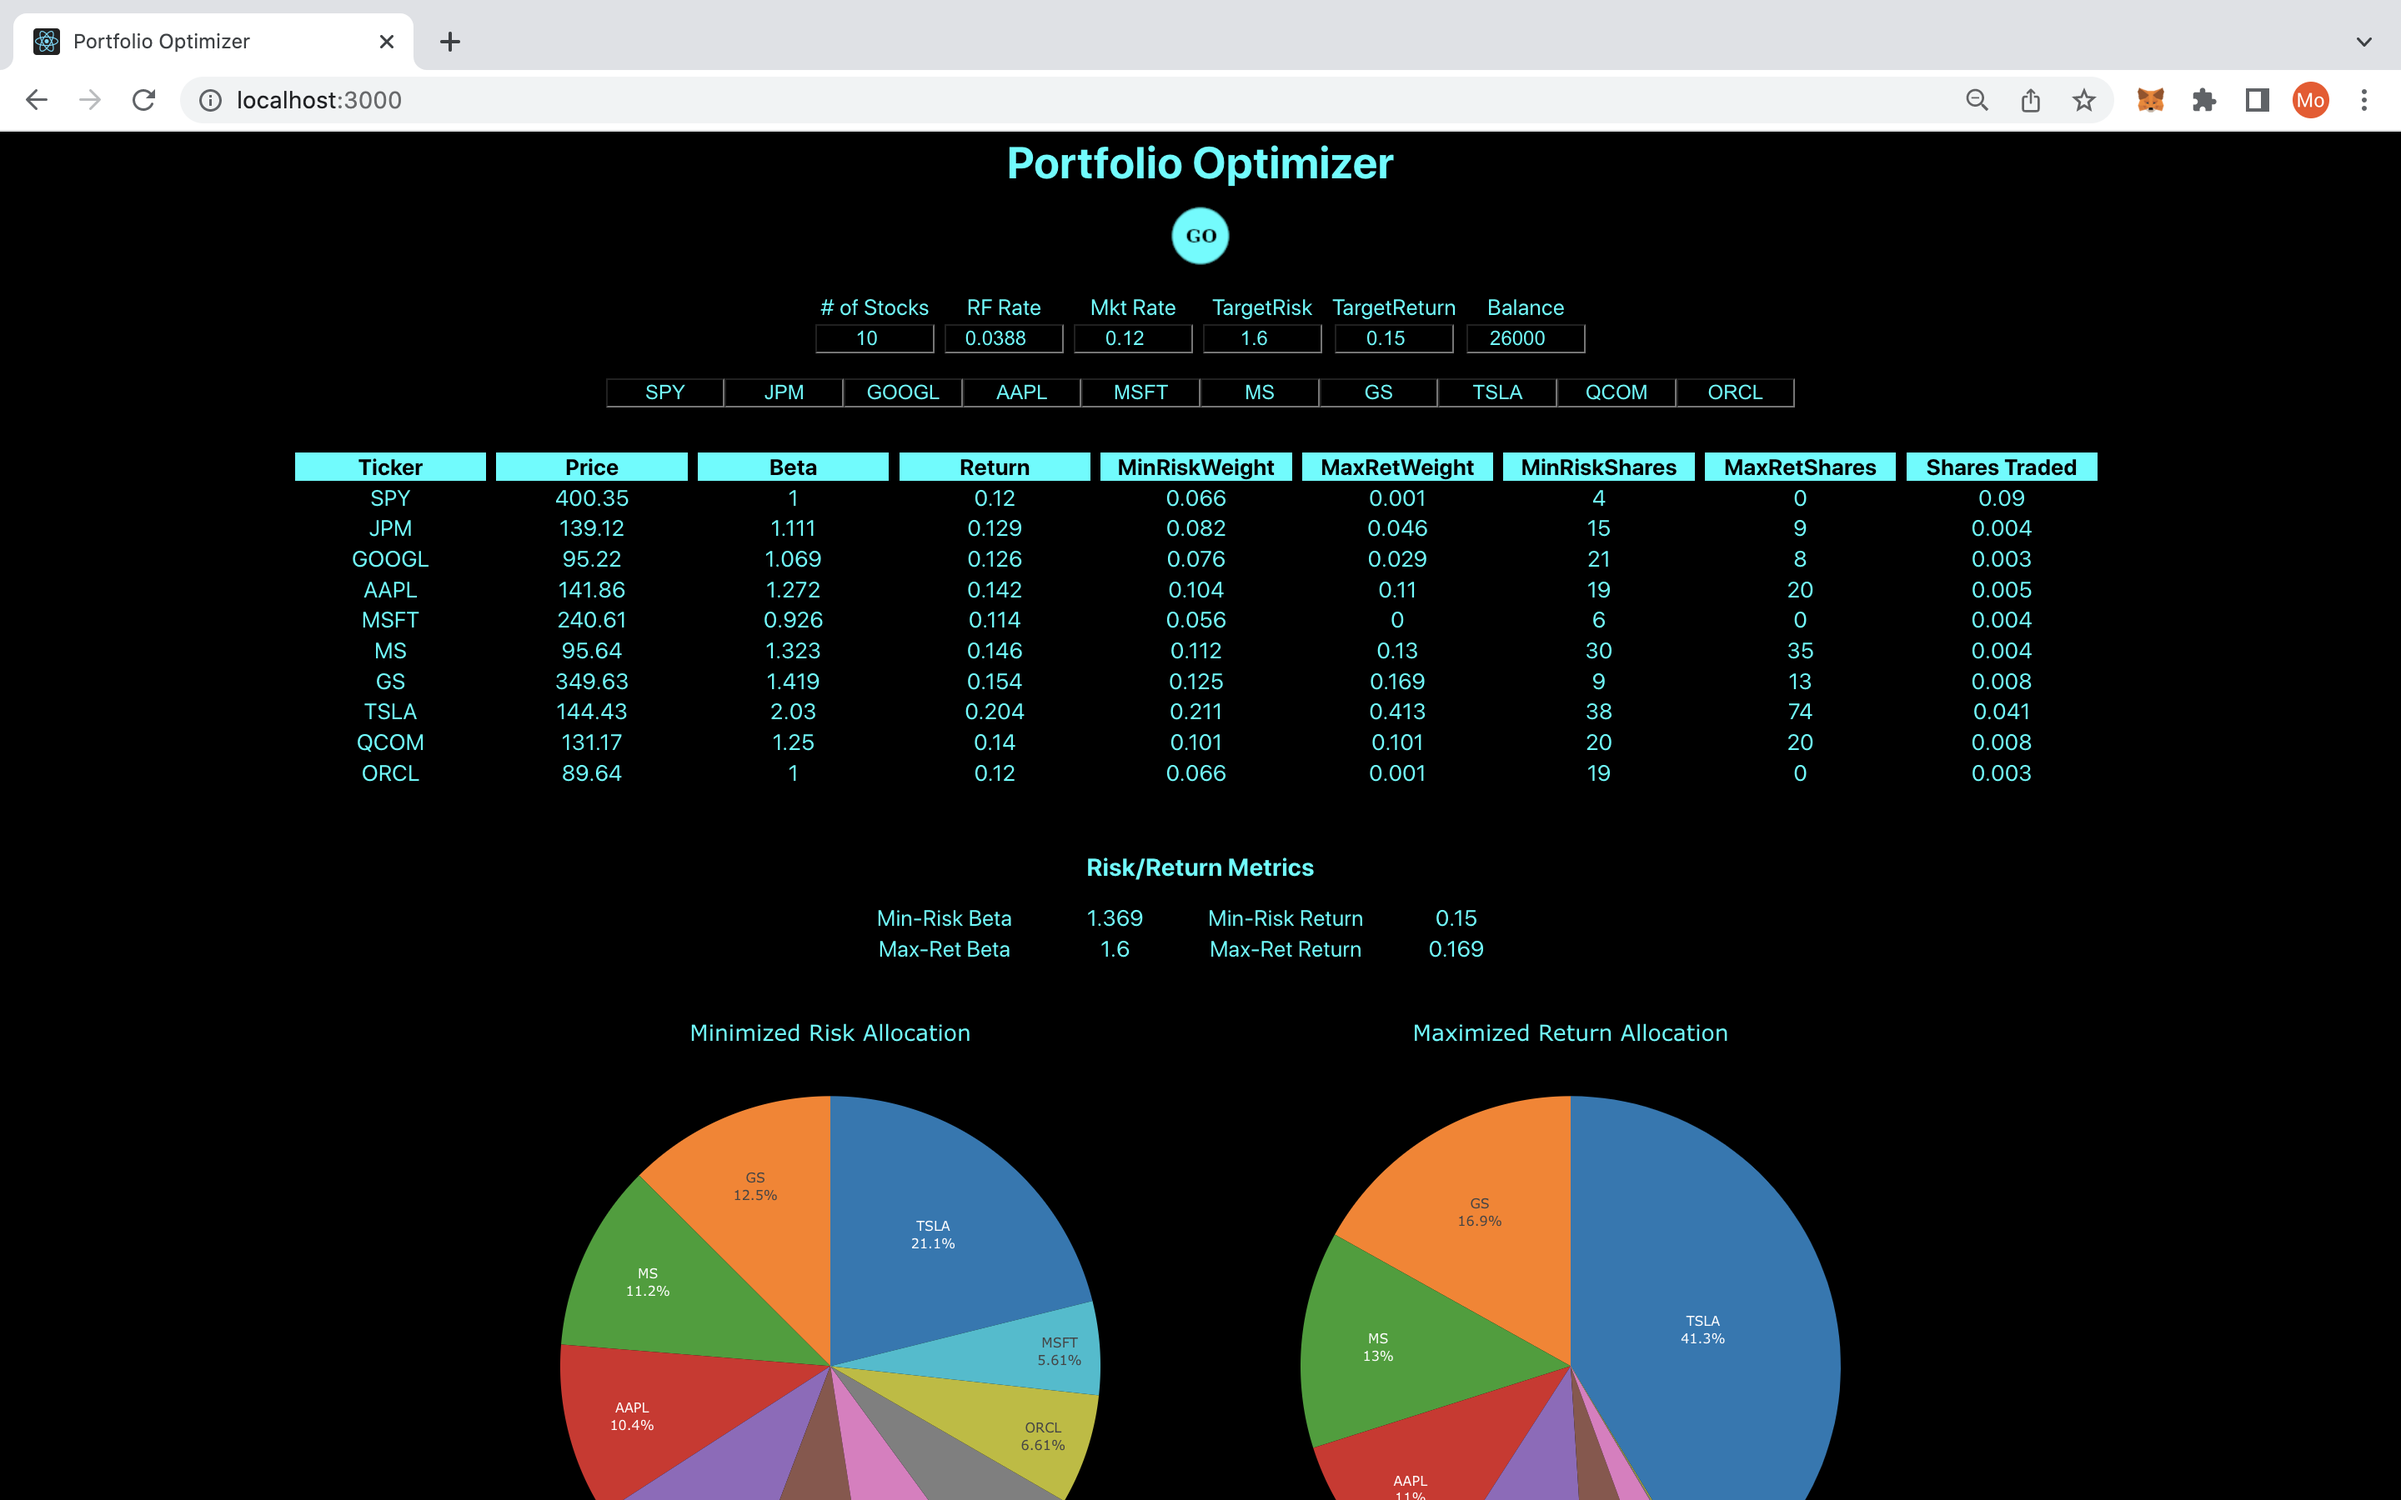
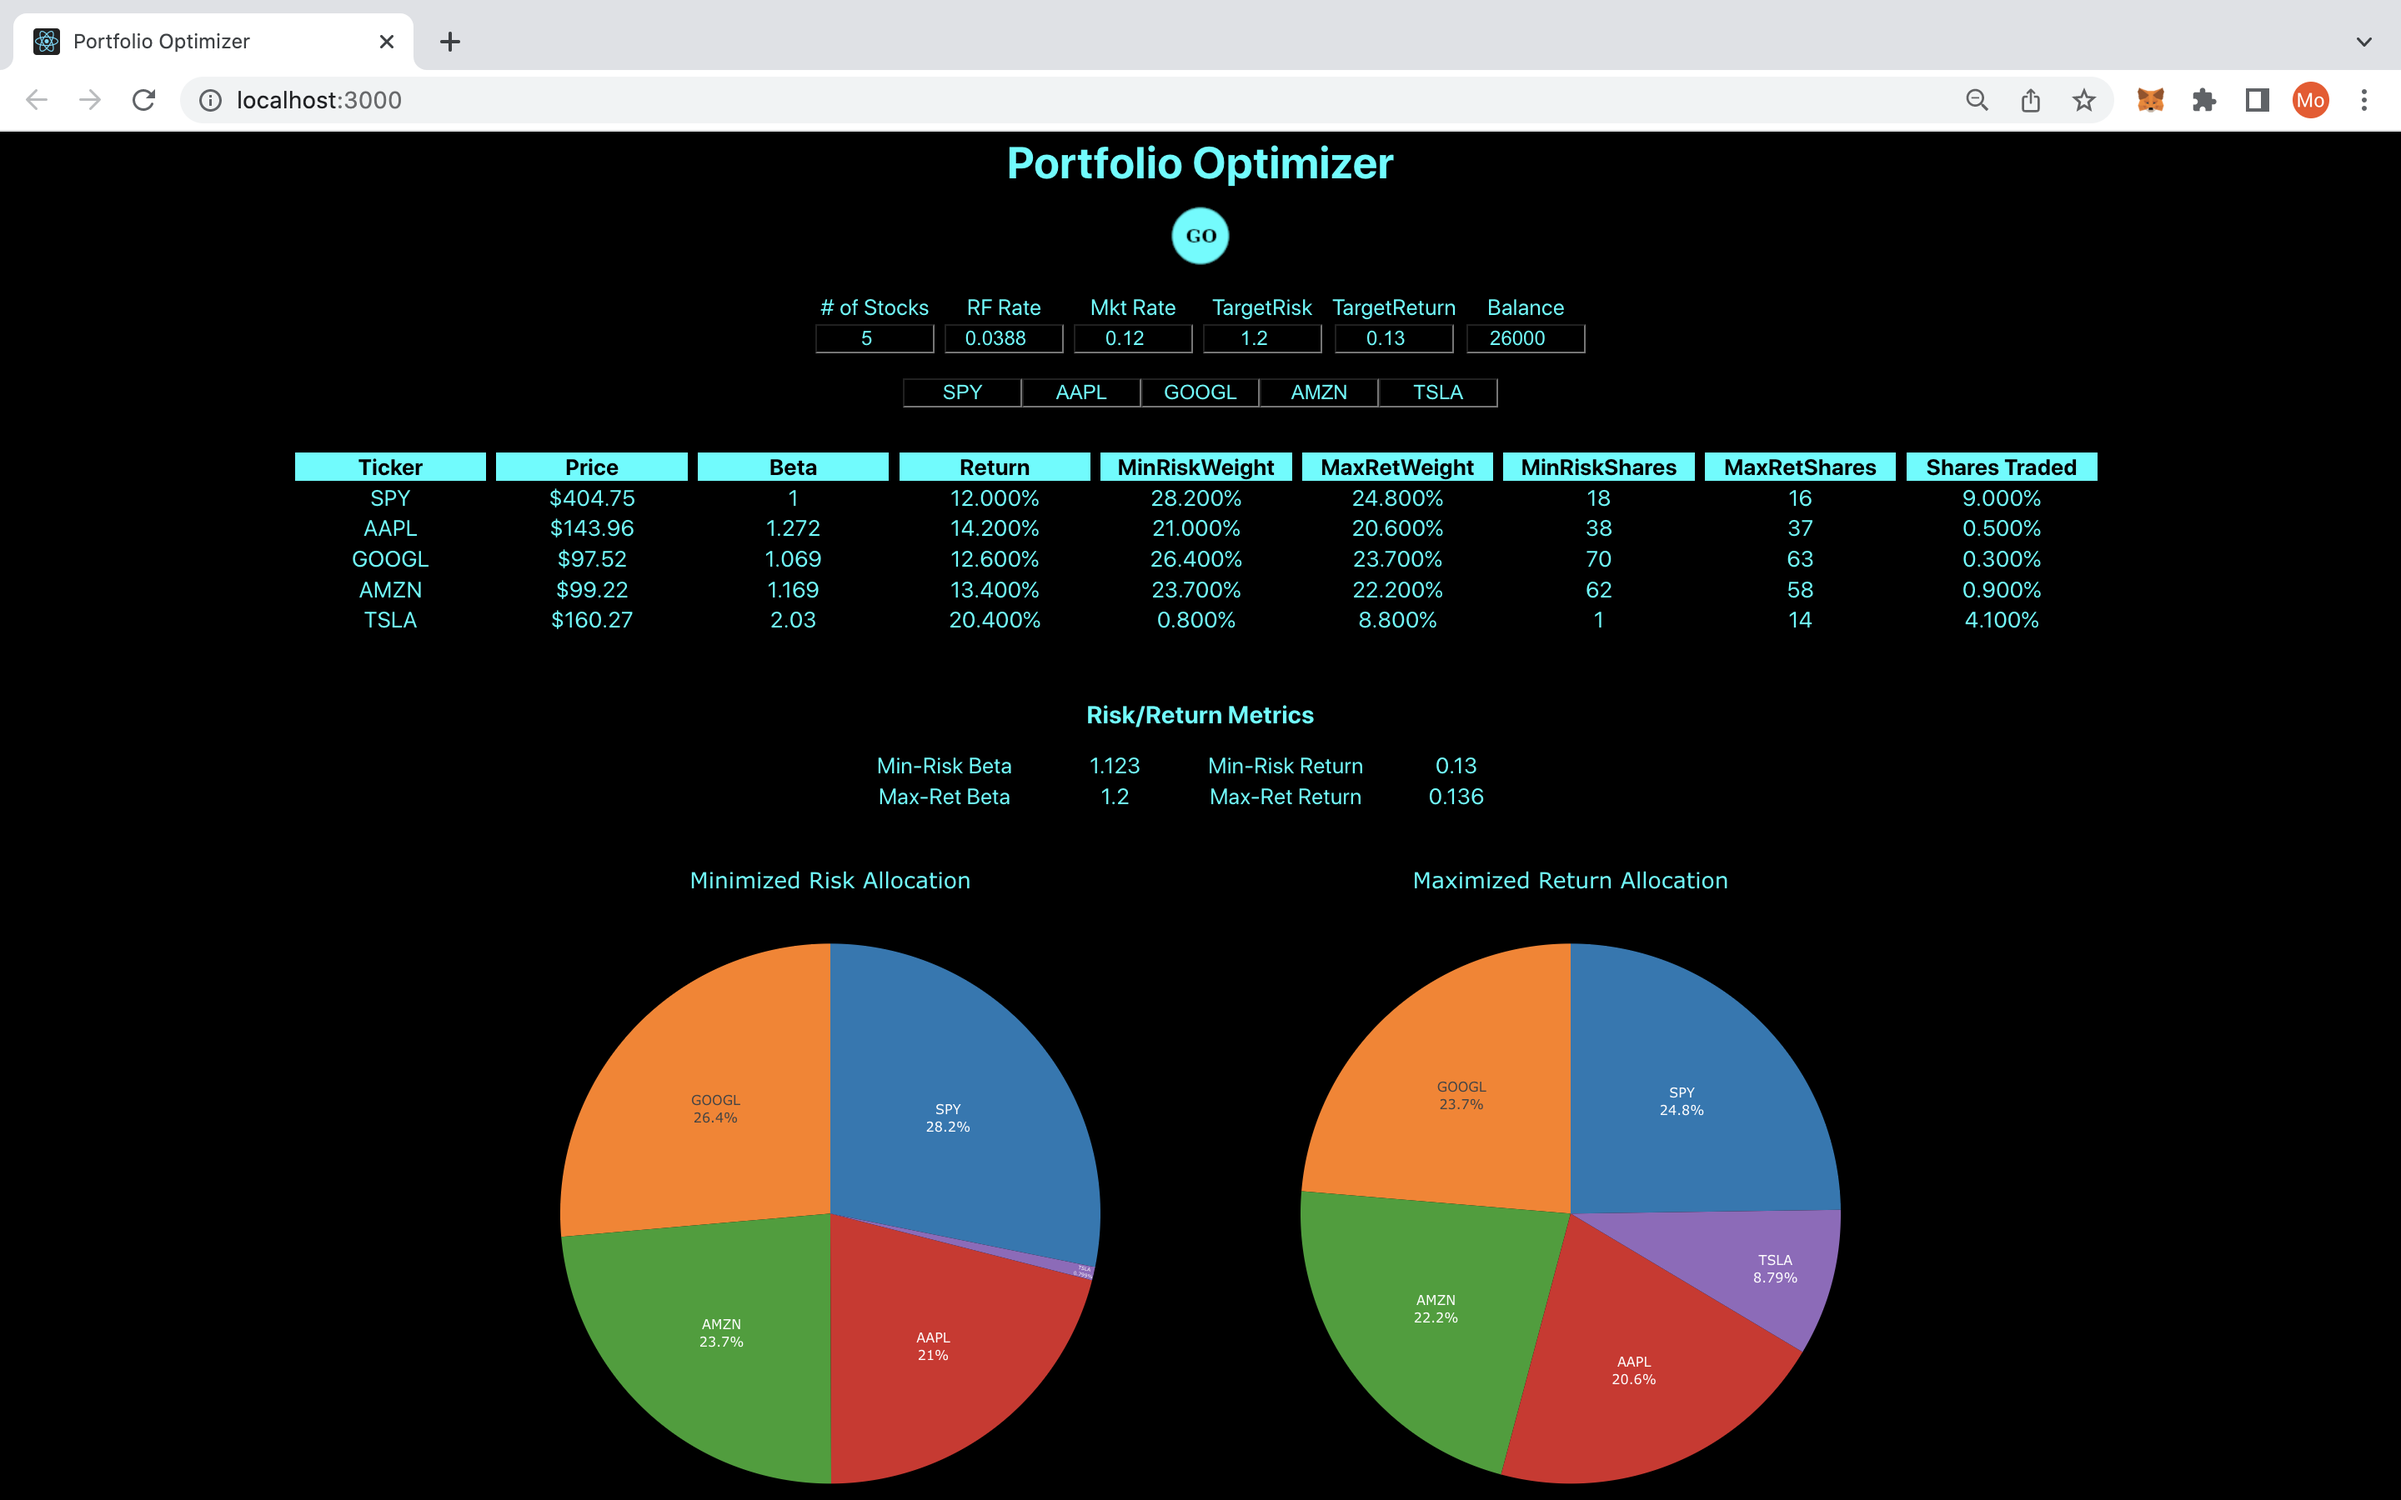
update

diff --git a/src/App.js b/src/App.js
@@ -115,11 +115,25 @@ export default class App extends React.Component {
         const I = "I" + i.toString()
         var row = []
         names.forEach((ix) => {
-          row.push(
-            <td style={style}>
-              {response[ix][i]}
-            </td>
-          )
+          if(ix == 'price'){
+            row.push(
+              <td style={style}>
+                {"$" + response[ix][i].toFixed(2)}
+              </td>
+            )
+          } else if(ix == 'capm' || ix == 'risk_weights' || ix == 'ret_weights' || ix == 'vmkt'){
+            row.push(
+              <td style={style}>
+                {parseFloat(response[ix][i]*100).toFixed(3) + "%"}
+              </td>
+            )
+          } else {
+            row.push(
+              <td style={style}>
+                {response[ix][i]}
+              </td>
+            )
+          }
           row.push(
             <td style={{backgroundColor: bg}}>&nbsp;</td>
           )
